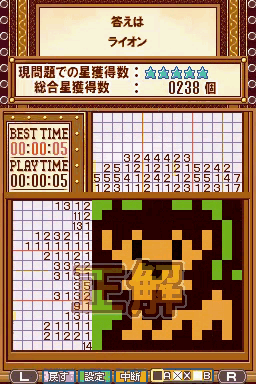
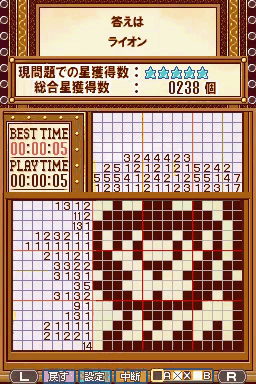
Vol.06 数织：收紧「未上色」判据并加杂色旁证复核
- 纸色判据从「R≥200 且 R−B≥0」改为 R≥200 / G≥150 / B≥110 / R−B≥10 / R−G≤22
  旧判据被 15×15 No.004（橘鬃绿底的狮子）骗过：图案主色是暖色，
  空格中位色落在橘色上 R−B 照样为正，挑到了已上色的一帧
- 无米白帧可挑时退而取「离纯米白最近」的帧，不再整支失败
- check_clear_shots.py 增加第三路复核：盘面矩形里强饱和绿/蓝像素 >300 即判失败，
  不依赖格心取色，专抓「格心全落在深色格」的漏网
- 300 张全部重出，三路复核 300/300 通过

diff --git a/解谜系列Vol.06：数织/check_clear_shots.py b/解谜系列Vol.06：数织/check_clear_shots.py
@@ -5,7 +5,8 @@
 对每张图独立判定，不信任提取脚本的中间量：
   · 逐格取格心 3×3 邻域，判「涂黑」= max<115 且 R>G+8；
   · 与 puzzles.json 的答案盘逐格比，报告「缺格（该涂没涂）/ 多格（不该涂却涂了）」；
-  · 顺带判「是否仍是米白底色」（空格中位色 R≥200 且 R−B≥0），即确认未上色。
+  · 判「是否仍是米白底色」：空格中位色要够亮、暖调（R−B≥10）且不发黄（R−G≤22）；
+  · 另做一路独立旁证：盘面矩形里强饱和的绿/蓝像素 >300 就说明图案色已经上来了。
 
 用法：python3 check_clear_shots.py [尺寸]
 退出码非 0 表示存在不一致。
@@ -40,7 +41,11 @@ def read_cells(im, n, s, x0, y0):
             ink |= (q.max(axis=-1) < 115) & (q[..., 0] > q[..., 1] + 8)
     paper = a[Y, X][~ink]
     med = np.median(paper, axis=0) if len(paper) else np.array([0, 0, 0])
-    return ink, med
+    # 独立于「格心取色」的旁证：盘面矩形里有没有强饱和的绿/蓝色块（上色后的图案色）
+    sub = a[int(y0):int(min(H, y0 + n * s)), int(x0):int(min(W, x0 + n * s))]
+    R, G, B = sub[..., 0].astype(int), sub[..., 1].astype(int), sub[..., 2].astype(int)
+    cool = int((((G > R + 25) & (G > B + 25)) | ((B > R + 25) & (B > G + 15))).sum())
+    return ink, med, cool
 
 
 def main():
@@ -64,19 +69,21 @@ def main():
             im = Image.open(os.path.join(d, f))
             im.load()
             im = im.convert('RGB')
-            ink, med = read_cells(im, size, s, x0, y0)
+            ink, med, cool = read_cells(im, size, s, x0, y0)
             miss = int((grid & ~ink).sum())
             extra = int((~grid & ink).sum())
             # 未浸染：空格中位色仍属米白系（R−B ≥ 0 且够亮）。上色后 R−B 会掉到负值或
             # R 掉到 200 以下；轻微褪色（如 (238,237,223)）算正常，那是浸染动画的最初半帧。
-            colored = not (med[0] >= 200 and med[0] - med[2] >= 0)
+            colored = not (med[0] >= 200 and med[1] >= 150 and med[2] >= 110
+                           and med[0] - med[2] >= 10 and med[0] - med[1] <= 22)
             total += 1
-            if miss or extra or colored:
+            if miss or extra or colored or cool > 300:
                 bad += 1
                 size_bad += 1
-                print('  %s/%s  缺%d格 多%d格  底色=%s%s'
-                      % (dname, f, miss, extra, tuple(int(v) for v in med),
-                         '  ← 已上色' if colored else ''))
+                print('  %s/%s  缺%d格 多%d格  底色=%s  杂色px=%d%s%s'
+                      % (dname, f, miss, extra, tuple(int(v) for v in med), cool,
+                         '  ← 底色已浸染' if colored else '',
+                         '  ← 盘面有图案色' if cool > 300 else ''))
         print('%s：%d 张，异常 %d' % (dname, len(files), size_bad))
     print('\n合计检查 %d 张，异常 %d' % (total, bad))
     return 1 if bad else 0

diff --git a/解谜系列Vol.06：数织/extract_vol6_clear_shots.py b/解谜系列Vol.06：数织/extract_vol6_clear_shots.py
@@ -118,7 +118,11 @@ def read_board(fr, n, s, x0, y0, grid):
         m = ~ink[i]
         if m.sum():
             med[i] = np.median(p[i][m], axis=0)
-    paper = (med[:, 0] >= 200) & ((med[:, 0] - med[:, 2]) >= 0)
+    # 空格仍是米白系：够亮、暖调（R−B 正）、且「黄」得不多（R−G 小）。
+    # 只看 R−B 会被「图案主色是暖色」的题骗过（15×15 No.004 的狮子：橘色鬃毛 R−G≈80、
+    # 绿底 R 只有 100，中位色落在橘色上，R−B 照样是正的）。
+    paper = ((med[:, 0] >= 200) & (med[:, 1] >= 150) & (med[:, 2] >= 110)
+             & ((med[:, 0] - med[:, 2]) >= 10) & ((med[:, 0] - med[:, 1]) <= 22))
     return ag, miss, extra, med, paper
 
 
@@ -140,7 +144,7 @@ def runs_of(mask, gap=3):
     return out
 
 
-def pick_index(ag, paper, gap=3):
+def pick_index(ag, paper, med=None, gap=3):
     """在「整盘全对」的连续段里挑一帧：从后往前找第一个含「纸色未浸染」帧的段，
     取该段内第一帧 paper 成立的帧（= 最后一格落笔、浸染还没动到空格的瞬间）。
 
@@ -152,6 +156,15 @@ def pick_index(ag, paper, gap=3):
         cand = [i for i in range(a, b + 1) if paper[i]]
         if cand:
             return cand[0]
+    # 退化：这些片子里「整盘全对」的第一帧就已经带上了浸染的暖色（图案主色本身偏黄，
+    # 底色中位色被拉走），此时只能退而取「离纯米白 (250,243,215) 最近」的那一帧。
+    if med is not None:
+        idx = np.where(ag >= AGREE_OK)[0]
+        if len(idx) == 0:
+            return None
+        d = (np.abs(med[idx, 0] - 250) + np.abs(med[idx, 1] - 243)
+             + np.abs(med[idx, 2] - 215))
+        return int(idx[int(np.argmin(d))])
     return None
 
 
@@ -191,7 +204,7 @@ def process(job):
     if len(fr) == 0:
         return dict(tag, ok=False, why='解码失败')
     ag, miss, extra, med, paper = read_board(fr, n, s, x0, y0, grid)
-    kc = pick_index(ag, paper)
+    kc = pick_index(ag, paper, med)
     if kc is None:
         k = int(np.argmax(ag))
         return dict(tag, ok=False,
@@ -205,7 +218,7 @@ def process(job):
     best, mode = None, 'coarse'
     if len(fine):
         fag, fmiss, fextra, fmed, fpaper = read_board(fine, n, s, x0, y0, grid)
-        k = pick_index(fag, fpaper)
+        k = pick_index(fag, fpaper, fmed)
         if k is not None:
             best = dict(frame=fine[k], t=ss + k / float(FINE_FPS), ag=float(fag[k]),
                         miss=int(fmiss[k]), extra=int(fextra[k]),

diff --git a/解谜系列Vol.06：数织/README.md b/解谜系列Vol.06：数织/README.md
@@ -145,7 +145,8 @@ python3 extract_vol6_answers.py
 | 逐帧比对 | 与 `puzzles.json` 的答案盘比：`ag` = 逐格一致率，`miss` = 该涂没涂的格数 |
 | 定帧 | 取**最后一个 `ag==1.0` 连续段的第一帧**，即最后一格落笔的瞬间 |
 | 为什么要「段首」 | 浸染先动空格底色、后动黑格本体。底色从 `(254,244,220)` 一路褪成 `(230,237,226)` → `(203,229,236)` → 蓝，这一段 `ag` 仍是 1.0（黑格还没变），取段尾会拿到已经褪色甚至泛蓝的画面 |
-| 兜底 | 上色完成后图案里的深色格（棕发、黑衣）依旧算「涂黑」，个别题整盘黑格恰好全落在深色区，`ag` 会继续等于 1.0；故按「空格中位色仍属米白系（`R≥200` 且 `R−B≥0`）」筛段，避开已经上色后的静止画面 |
+| 兜底 | 上色完成后图案里的深色格（棕发、黑衣）依旧算「涂黑」，个别题整盘黑格恰好全落在深色区，`ag` 会继续等于 1.0；故再按「空格中位色仍属米白系」筛段 —— 判据是 `R≥200、G≥150、B≥110、R−B≥10、R−G≤22`（够亮 / 暖调 / 不发黄）。只看 `R−B` 会被「图案主色是暖色」的题骗过：15×15 No.004 是橘鬃绿底的狮子，中位色落在橘色上，`R−B` 照样为正，于是挑到了已经上色的一帧 |
+| 再兜底 | 极少数片子里「整盘全对」的第一帧就已经带上浸染的暖色（图案主色本身偏黄），没有米白帧可挑，此时退而取「离纯米白 `(250,243,215)` 最近」的那一帧，并在报告里标注 |
 | 时间精度 | 先 10 fps 粗扫定位，再在 ±0.5 s 窗口内 30 fps 精扫取段首 —— 涂满与浸染有时只隔 1~2 帧（@30 fps） |
 
 ### 怎么复现
@@ -155,8 +156,14 @@ python3 extract_vol6_clear_shots.py        # 300 张，8 进程，约 12 分钟
 python3 check_clear_shots.py               # 逐张回读校验，退出码非 0 表示有不一致
 ```
 
-`check_clear_shots.py` 不信任提取时的中间量：把落盘 PNG 重新按格心解码，与答案盘比 `缺格/多格`，
-并复核空格底色是否仍未浸染。**当前 300/300 全部 `缺0 多0`、底色米白**。
+`check_clear_shots.py` 不信任提取时的中间量，三路独立复核落盘 PNG：
+
+1. **逐格对答案**：按格心重新解码，与 `puzzles.json` 比 `缺格 / 多格`；
+2. **底色**：空格中位色要够亮、暖调、不发黄（同上判据）；
+3. **杂色扫描**：盘面矩形里强饱和的绿/蓝像素 >300 就说明图案色已经上来了 —— 这一路完全不依赖格心取色，
+   专门抓「格心恰好都落在深色格上、`ag` 仍是 1.0」的漏网。
+
+**当前 300/300 全部 `缺0 多0`、底色米白、杂色 <300**。
 
 逐帧采样点见 `extract_clear_report.json`（每张的 `t` / `agree` / `missing` / `paper`）。
 
